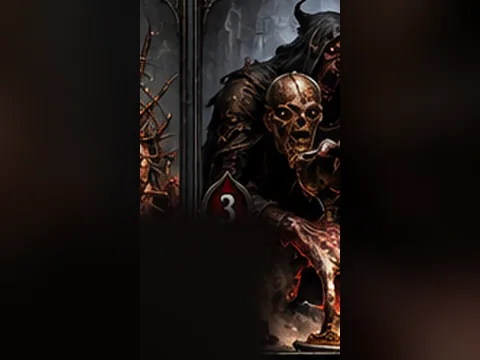
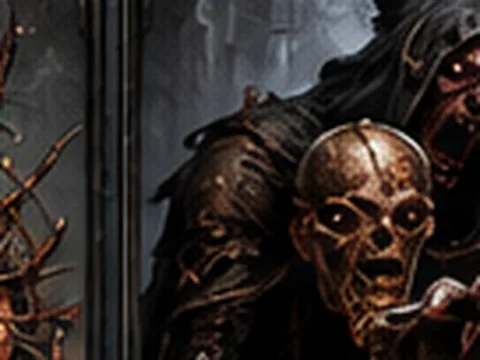
Recrop all 20 new Demon artworks to fill live card frames; refresh mobile cache

diff --git a/index.html b/index.html
@@ -107,11 +107,11 @@
 
 
 
-<link rel="stylesheet" href="./src/styles/base.css?v=clean24">
-<link rel="stylesheet" href="./src/styles/roguelite.css?v=clean24">
-<link rel="stylesheet" href="./src/styles/mobile.css?v=clean24">
-<link rel="stylesheet" href="./src/styles/multiplayer.css?v=clean24">
-<link rel="stylesheet" href="./src/styles/accessibility.css?v=clean24">
+<link rel="stylesheet" href="./src/styles/base.css?v=clean25">
+<link rel="stylesheet" href="./src/styles/roguelite.css?v=clean25">
+<link rel="stylesheet" href="./src/styles/mobile.css?v=clean25">
+<link rel="stylesheet" href="./src/styles/multiplayer.css?v=clean25">
+<link rel="stylesheet" href="./src/styles/accessibility.css?v=clean25">
 </head>
 <body>
 <div id="gameStatusToast" class="gameStatusToast hidden" role="status" aria-live="polite"></div>
@@ -625,15 +625,15 @@
 
 
 
-<script src="./src/js/00-data.js?v=clean24"></script>
-<script src="./src/js/10-engine.js?v=clean24"></script>
-<script src="./src/js/15-asset-loader.js?v=clean24"></script>
-<script src="./src/js/20-ui-foundation.js?v=clean24"></script>
-<script src="./src/js/25-font-settings.js?v=clean24"></script>
-<script src="./src/js/30-roguelite.js?v=clean24"></script>
-<script src="./src/js/40-priest-ui.js?v=clean24"></script>
-<script src="./src/js/50-mobile.js?v=clean24"></script>
-<script src="./src/js/60-multiplayer.js?v=clean24"></script>
-<script src="./src/js/70-multiplayer-patches.js?v=clean24"></script>
+<script src="./src/js/00-data.js?v=clean25"></script>
+<script src="./src/js/10-engine.js?v=clean25"></script>
+<script src="./src/js/15-asset-loader.js?v=clean25"></script>
+<script src="./src/js/20-ui-foundation.js?v=clean25"></script>
+<script src="./src/js/25-font-settings.js?v=clean25"></script>
+<script src="./src/js/30-roguelite.js?v=clean25"></script>
+<script src="./src/js/40-priest-ui.js?v=clean25"></script>
+<script src="./src/js/50-mobile.js?v=clean25"></script>
+<script src="./src/js/60-multiplayer.js?v=clean25"></script>
+<script src="./src/js/70-multiplayer-patches.js?v=clean25"></script>
 </body>
 </html>

diff --git a/service-worker.js b/service-worker.js
@@ -1,4 +1,4 @@
-const CACHE_NAME='sanctum-clean-v24';
+const CACHE_NAME='sanctum-clean-v25';
 const CORE=[
   './',
   './index.html',
